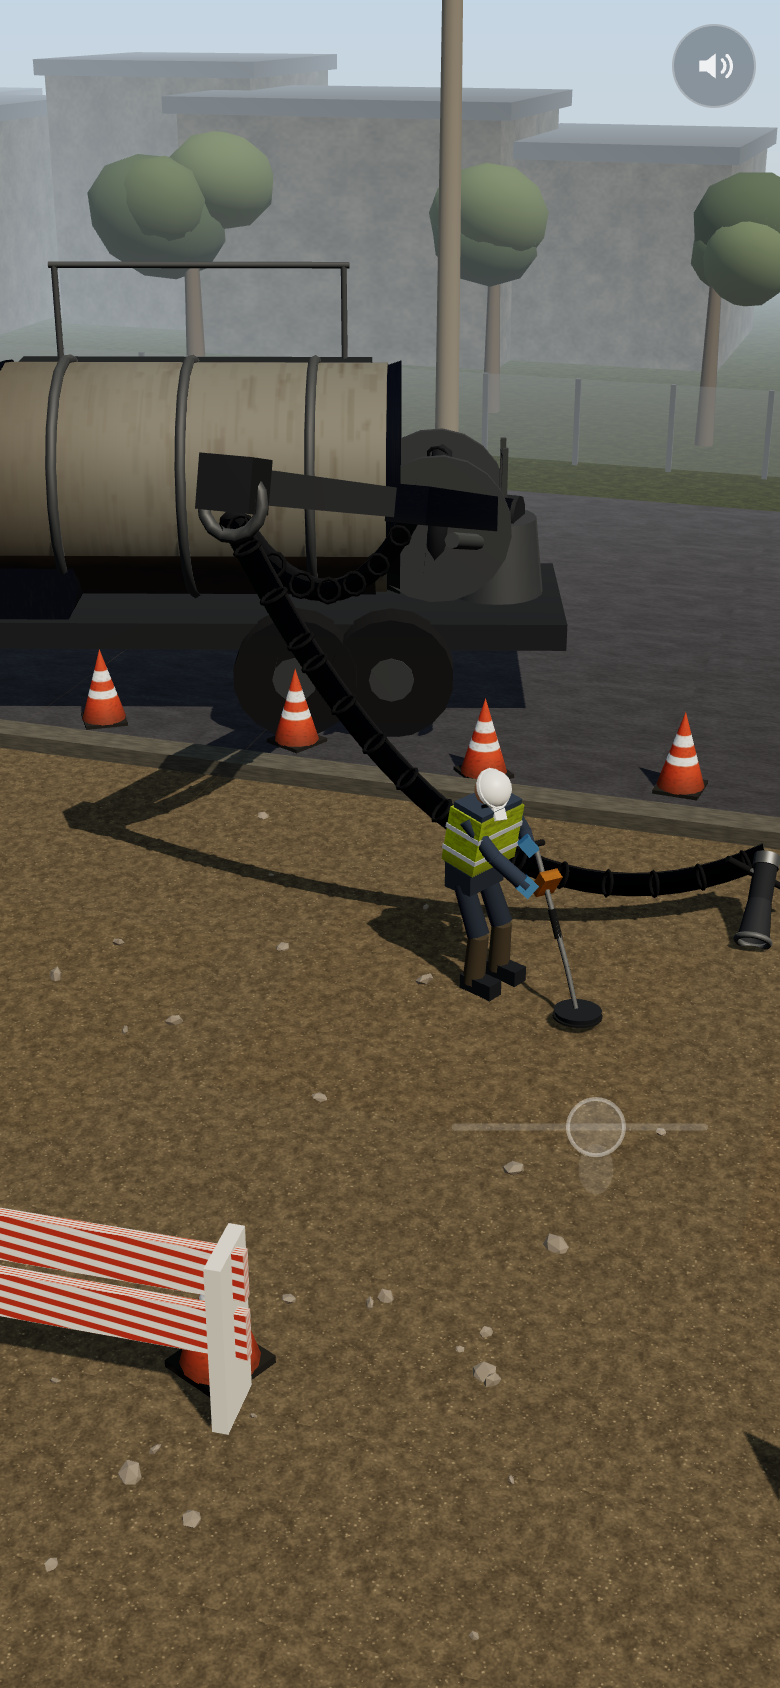
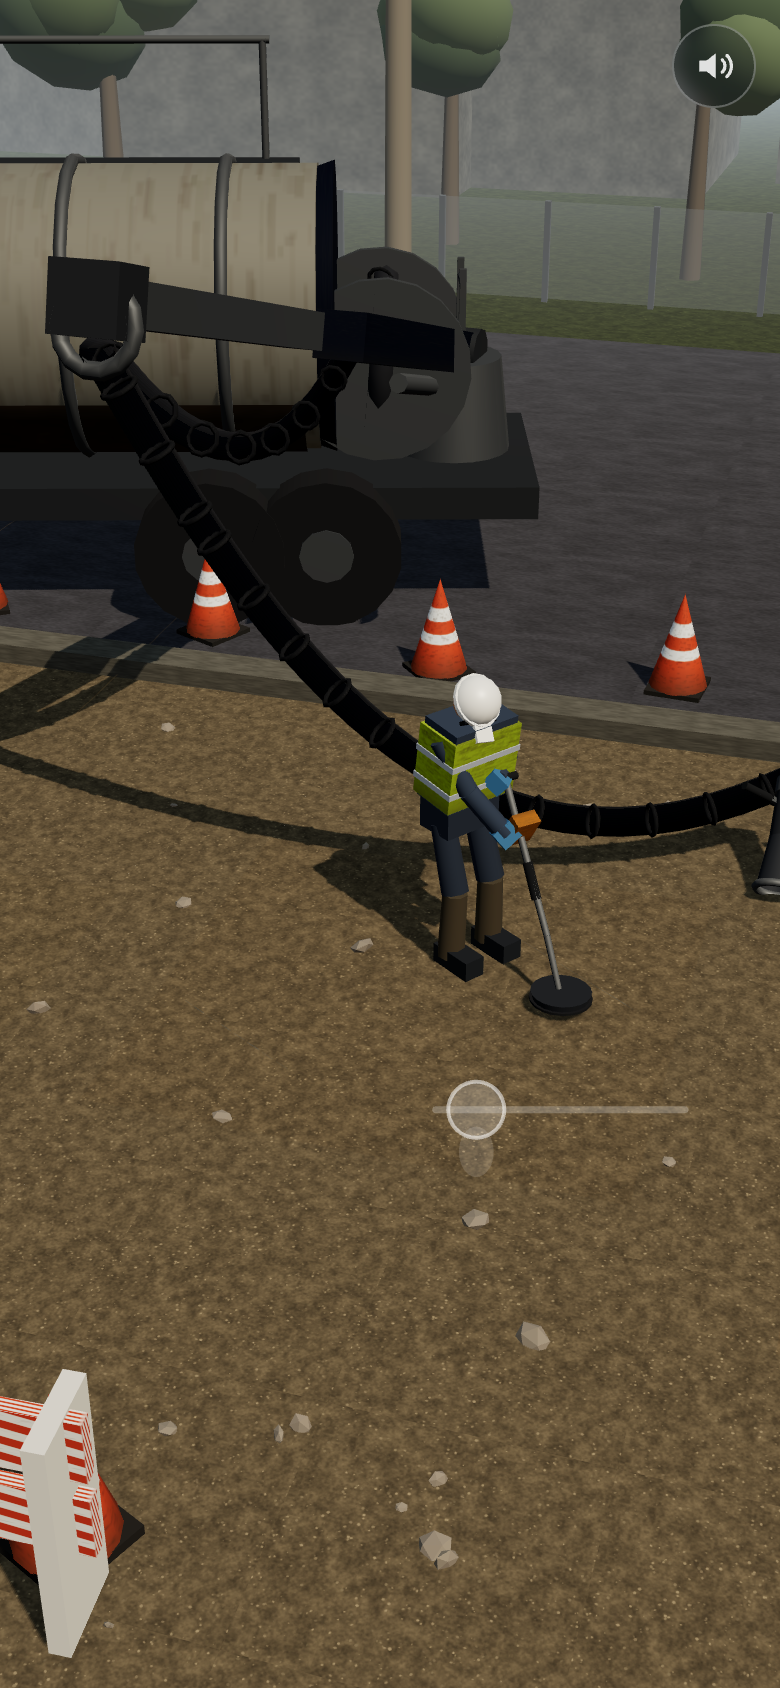
Fix depth-rod placement and reach, widen the establishing shot, extend the ground

diff --git a/src/game/Game.ts b/src/game/Game.ts
@@ -106,7 +106,7 @@ export class Game {
     this.audio = audio;
     this.hud = hud;
 
-    this.scene.fog = new THREE.Fog(0xc4d2df, 13, 52);
+    this.scene.fog = new THREE.Fog(0xc4d2df, 17, 44);
     this.scene.add(buildSky());
 
     this.env = new Environment(
@@ -171,7 +171,7 @@ export class Game {
       this.scene.add(cross.mesh);
 
       for (const m of cfg.markings) {
-        const d = new GroundDecal(markingTexture(m.color, m.dashed, 256), m.length, 0.13, 0.34);
+        const d = new GroundDecal(markingTexture(m.color, m.dashed, 256), m.length, 0.17, 0.44);
         d.place(cfg.origin.x + m.x, 0.014, cfg.origin.z + m.z, m.rot);
         d.show(true);
         this.markDecals.push(d);
@@ -220,7 +220,7 @@ export class Game {
       this.truck.boomTipWorld(this.tmp2).clone(),
       this.nozzle.inletWorld(this.tmp3).clone()
     );
-    this.director.setShot(SHOTS.establish(), new THREE.Vector3(1.9, 0, 1.4), true);
+    this.director.setShot(SHOTS.establish(), new THREE.Vector3(1.3, 0, 0.2), true);
   }
 
   // ------------------------------------------------------------------ setup
@@ -484,7 +484,7 @@ export class Game {
   private workerStand(): THREE.Vector3 {
     const off = SITES[this.siteIndex].workerOffset;
     // standing tools put the hands further out, so the operator steps back
-    const reach = this.tool === 'detector' ? 0.78 : this.tool === 'rod' ? 0.9 : 1.0;
+    const reach = this.tool === 'detector' ? 0.78 : this.tool === 'rod' ? 0.7 : 1.0;
     return this.tmp2.set(this.workPoint.x + off.x * reach, 0, this.workPoint.z + off.y * reach);
   }
 
@@ -523,10 +523,10 @@ export class Game {
         vibrate([14, 40, 22]);
         break;
       case 'depth': {
-        // drop the rod right where the pipe is bared, so the reading is honest
-        dig.firstCutPoint(this.tmp);
+        // drop the rod into the middle of the bared run, so the reading is honest
+        dig.cutCentroid(this.tmp);
         this.workPoint.set(this.tmp.x, 0, this.tmp.z);
-        this.rodTipY = 0.62;
+        this.rodTipY = 0.3;
         this.rodHold = 0;
         this.director.setShot(SHOTS.depth(), this.workPoint);
         break;
@@ -545,7 +545,7 @@ export class Game {
         break;
       }
       case 'finale':
-        this.director.setShot(SHOTS.establish(), this.tmp.set(1.4, 0, 0.9));
+        this.director.setShot(SHOTS.finale(), this.tmp.set(0.5, 0, -0.6));
         break;
     }
   }
@@ -555,7 +555,7 @@ export class Game {
   private updateIntro() {
     this.workPoint.copy(SITES[0].origin);
     // frame the lot and the truck together, not just the first patch
-    this.director.setSubject(this.tmp.set(1.9, 0, 1.4));
+    this.director.setSubject(this.tmp.set(1.3, 0, 0.2));
     if (this.phaseTime > 0.8) {
       this.beginSwap('detect', 'detector', 1.3);
     }
@@ -749,7 +749,7 @@ export class Game {
     if (this.input.active) {
       this.rodTipY -= this.input.dy * 0.0022;
     }
-    this.rodTipY = clamp(this.rodTipY, stop, 0.75);
+    this.rodTipY = clamp(this.rodTipY, stop, 0.42);
     this.toolPoint.set(px, this.rodTipY, pz);
     const grade = SITES[this.siteIndex].origin.y + PATCH_LIFT;
     this.rod.setGroundLine(grade - this.rodTipY);
@@ -816,7 +816,7 @@ export class Game {
   private updateFinale() {
     this.toolPoint.copy(SITES[0].origin);
     this.toolPoint.y = 0.3;
-    this.director.setSubject(this.tmp.set(1.4, 0, 0.9));
+    this.director.setSubject(this.tmp.set(0.5, 0, -0.6));
     if (this.phaseTime > 2.5 && this.input.justPressed) this.restart();
   }
 
@@ -854,7 +854,7 @@ export class Game {
         : this.phase === 'mark'
           ? 0.72
           : this.phase === 'depth'
-            ? 0.3
+            ? 0.12
             : 0.6;
     this.worker.place(this.workerStand(), this.toolPoint, crouch);
 

diff --git a/src/scene/Environment.ts b/src/scene/Environment.ts
@@ -42,7 +42,7 @@ export class Environment {
     const asph = asphaltTexture(512);
     asph.repeat.set(14, 6);
     const road = new THREE.Mesh(
-      new THREE.PlaneGeometry(56, 10, 1, 1),
+      new THREE.PlaneGeometry(90, 10, 1, 1),
       new THREE.MeshStandardMaterial({ map: asph, roughness: 0.95, metalness: 0 })
     );
     road.rotation.x = -Math.PI / 2;
@@ -54,18 +54,18 @@ export class Environment {
     const vergeMap = soilTexture(512, [100, 104, 78]);
     vergeMap.repeat.set(30, 16);
     const verge = new THREE.Mesh(
-      new THREE.PlaneGeometry(70, 26, 1, 1),
+      new THREE.PlaneGeometry(90, 30, 1, 1),
       new THREE.MeshStandardMaterial({ map: vergeMap, color: 0x9aa07c, roughness: 1, metalness: 0 })
     );
     verge.rotation.x = -Math.PI / 2;
-    verge.position.set(0, 0.008, LOT_Z + 22);
+    verge.position.set(0, 0.008, LOT_Z + 24);
     verge.receiveShadow = true;
     this.group.add(verge);
 
     const conc = concreteTexture(256);
     conc.repeat.set(44, 1);
     const kerb = new THREE.Mesh(
-      new THREE.BoxGeometry(56, 0.14, 0.3),
+      new THREE.BoxGeometry(90, 0.14, 0.3),
       new THREE.MeshStandardMaterial({ map: conc, color: 0xb2ada2, roughness: 0.95, metalness: 0 })
     );
     kerb.position.set(0, 0.07, LOT_Z + 0.15);
@@ -74,7 +74,7 @@ export class Environment {
     this.group.add(kerb);
 
     const line = new THREE.Mesh(
-      new THREE.PlaneGeometry(56, 0.15),
+      new THREE.PlaneGeometry(90, 0.15),
       new THREE.MeshBasicMaterial({
         map: markingTexture('#cdc7ab', true, 256),
         transparent: true,
@@ -282,7 +282,7 @@ export class Environment {
     const q = new THREE.Quaternion();
     spots.forEach(([x, z, s], i) => {
       q.setFromEuler(new THREE.Euler(0, rng.range(0, 6.28), 0));
-      m.compose(new THREE.Vector3(x, -s * 0.72, z), q, new THREE.Vector3(s * 2.2, s, s * 1.75));
+      m.compose(new THREE.Vector3(x, -s * 0.42, z), q, new THREE.Vector3(s * 2.3, s * 0.95, s * 1.8));
       im.setMatrixAt(i, m);
     });
     im.instanceMatrix.needsUpdate = true;
@@ -454,9 +454,9 @@ export class Environment {
  * and the patches share one texel density.
  */
 function buildLotGeometry(holes: GroundHole[]): THREE.BufferGeometry {
-  const minX = -28;
-  const maxX = 28;
-  const minZ = LOT_Z - 34;
+  const minX = -45;
+  const maxX = 45;
+  const minZ = LOT_Z - 40;
   const maxZ = LOT_Z;
   const pos: number[] = [];
   const uv: number[] = [];

diff --git a/src/game/CameraDirector.ts b/src/game/CameraDirector.ts
@@ -138,12 +138,12 @@ export const SHOTS = {
   /** Opening: whole work area, truck reading as mid-ground, road beyond. */
   establish: (): Shot => ({
     dir: new THREE.Vector3(-0.34, 0.42, -1).normalize(),
-    distance: 13.0,
+    distance: 16.5,
     fov: 40,
     ndcY: 0.05,
-    raise: 1.0,
-    portraitDistance: 1.4,
-    portraitFov: 48,
+    raise: 1.2,
+    portraitDistance: 1.45,
+    portraitFov: 50,
     speed: 1.5,
   }),
   /** Locating: shallow overhead so the sensor shadow and the ground read together. */
@@ -222,6 +222,17 @@ export const SHOTS = {
     portraitDistance: 1.3,
     portraitFov: 52,
     speed: 1.5,
+  }),
+  /** Closing wide: the three finished work points and the truck together. */
+  finale: (): Shot => ({
+    dir: new THREE.Vector3(-0.3, 0.46, -1).normalize(),
+    distance: 11.5,
+    fov: 42,
+    ndcY: 0.05,
+    raise: 0.8,
+    portraitDistance: 1.42,
+    portraitFov: 52,
+    speed: 2.8,
   }),
   /** Short underground cutaway, only unlocked after the first find. */
   cutaway: (): Shot => ({

diff --git a/src/dig/DigSite.ts b/src/dig/DigSite.ts
@@ -632,6 +632,27 @@ export class DigSite {
     return out.set(x, this.origin.y - this.depth[bi], z);
   }
 
+  /** Centre of the bared area, so the depth rod goes down beside the pipe. */
+  cutCentroid(out: THREE.Vector3): THREE.Vector3 {
+    let sx = 0;
+    let sz = 0;
+    let sd = 0;
+    let w = 0;
+    const half = this.size / 2;
+    for (let i = 0; i < this.cut.length; i++) {
+      const c = this.cut[i];
+      if (c < 0.5) continue;
+      const x = -half + (i % this.n) * this.cell;
+      const z = -half + Math.floor(i / this.n) * this.cell;
+      sx += x * c;
+      sz += z * c;
+      sd += this.depth[i] * c;
+      w += c;
+    }
+    if (w === 0) return this.firstCutPoint(out);
+    return out.set(this.origin.x + sx / w, this.origin.y - sd / w, this.origin.z + sz / w);
+  }
+
   dispose() {
     this.geo.dispose();
     (this.mesh.material as THREE.Material).dispose();
